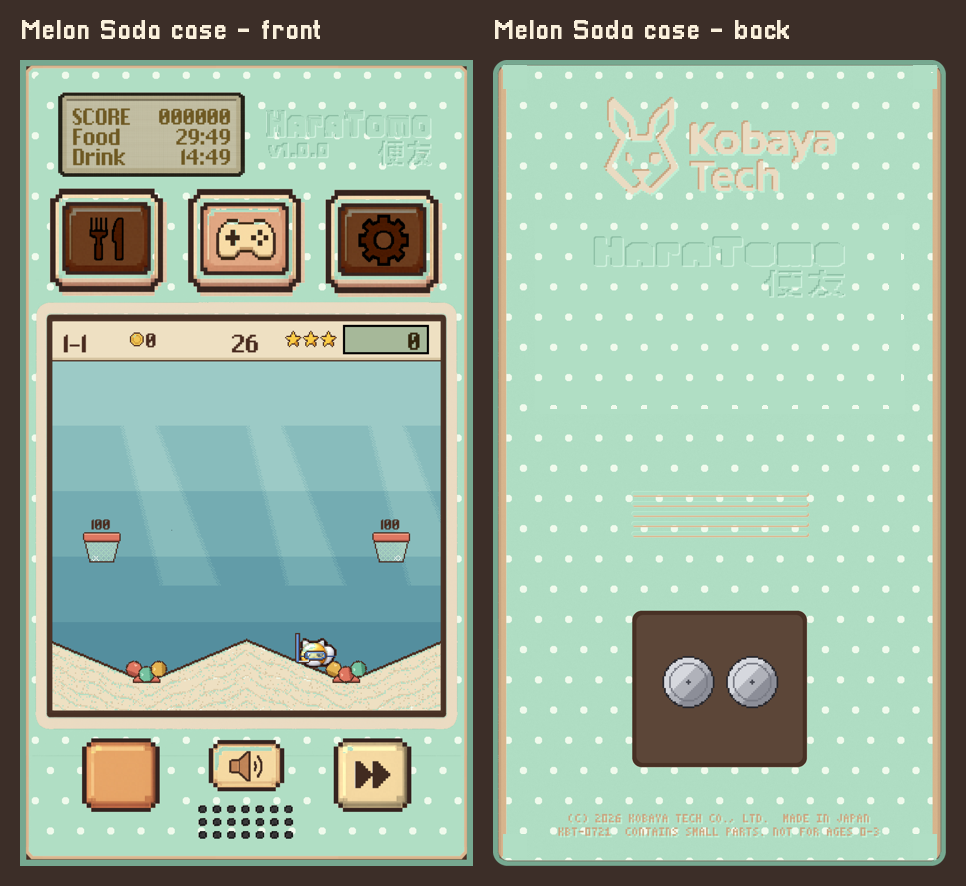
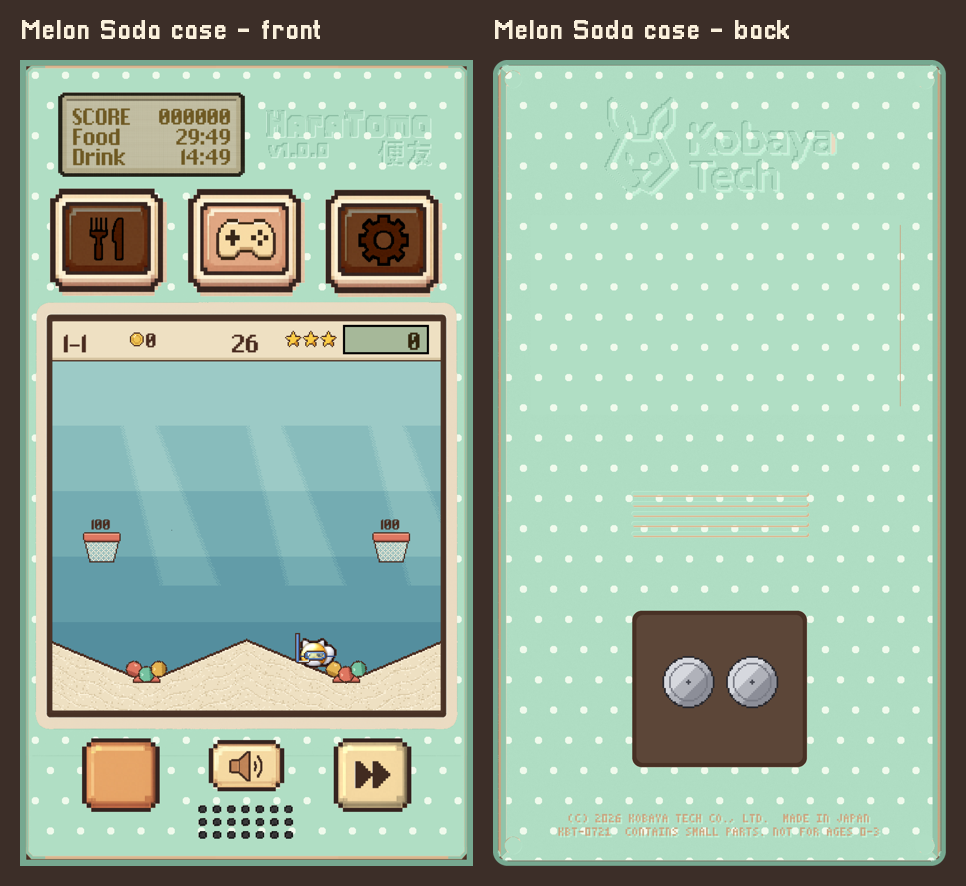
Melon Soda case mockup: the sides in the case's tone, buttons untouched, only Kobaya Tech carved on the back

diff --git a/docs/ideas_roadmap.md b/docs/ideas_roadmap.md
@@ -623,7 +623,9 @@ then pages); the section's name is the page title. Coins on the frame's top band
    (Melon Soda: mint with white dots; Sakura: pink with pale dots). With a case on (user,
    2026-10-13; docs/mockups/case_melon_soda.png, the favourite: "this might be the way to go"):
    the screws, the device's dark edges and the back sticker are hidden under it; the case has
-   its own darker rim; HaraTomo (front and back) and Kobaya Tech (back) are CARVED into it, in
+   its own darker rim, and the device's tan sides become one even darker-mint stripe top to
+   bottom; the buttons and the screen keep their own colours; HaraTomo (front) and Kobaya Tech
+   (back, nothing else carved there) are CARVED into it, in
    the case's own colour (pressed in: a shade on the top-left inner edge, light on the bottom
    right); the battery lid stays reachable. Some cases could come only
    from games' gift tracks or Lucky Pinch (not for sale), to make them collectable.
